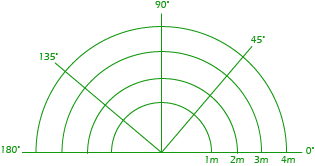
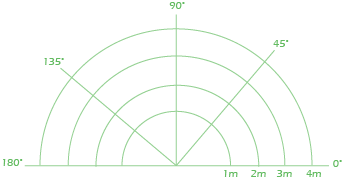
radar update

diff --git a/RobotPis/templates/control.html b/RobotPis/templates/control.html
@@ -32,7 +32,8 @@
             </div>
         
             <div id="radar-container">
-                <canvas id="radar"></canvas>
+                <img id="radar" src="{% static "images/radar_bg.png" %}" alt="radar">
+                <img id="radar-aguja" src="{% static "images/radar_aguja.png" %}" alt="radar">
             </div>
         </div>
     
@@ -79,6 +80,7 @@
     </section>
 {% endblock %}
 
-{% block scripts %}
+{% block scripts %} 
     <script src="{% static "js/control.js" %}"></script>
+    <script src="{% static "js/radar.js" %}"></script>
 {% endblock %}

diff --git a/RobotPis/static/css/control/control.css b/RobotPis/static/css/control/control.css
@@ -72,7 +72,15 @@ header {
 #radar-container {
     width: 100%;
     height: 40%;
-    background-color: aliceblue;
+    background-color: #003e00;
+    text-align: center;
+    padding: 10px;
+}
+
+#radar-aguja {
+    position: relative;
+    bottom: 34px;
+    left: 72px;
 }
 
 #control-container {
